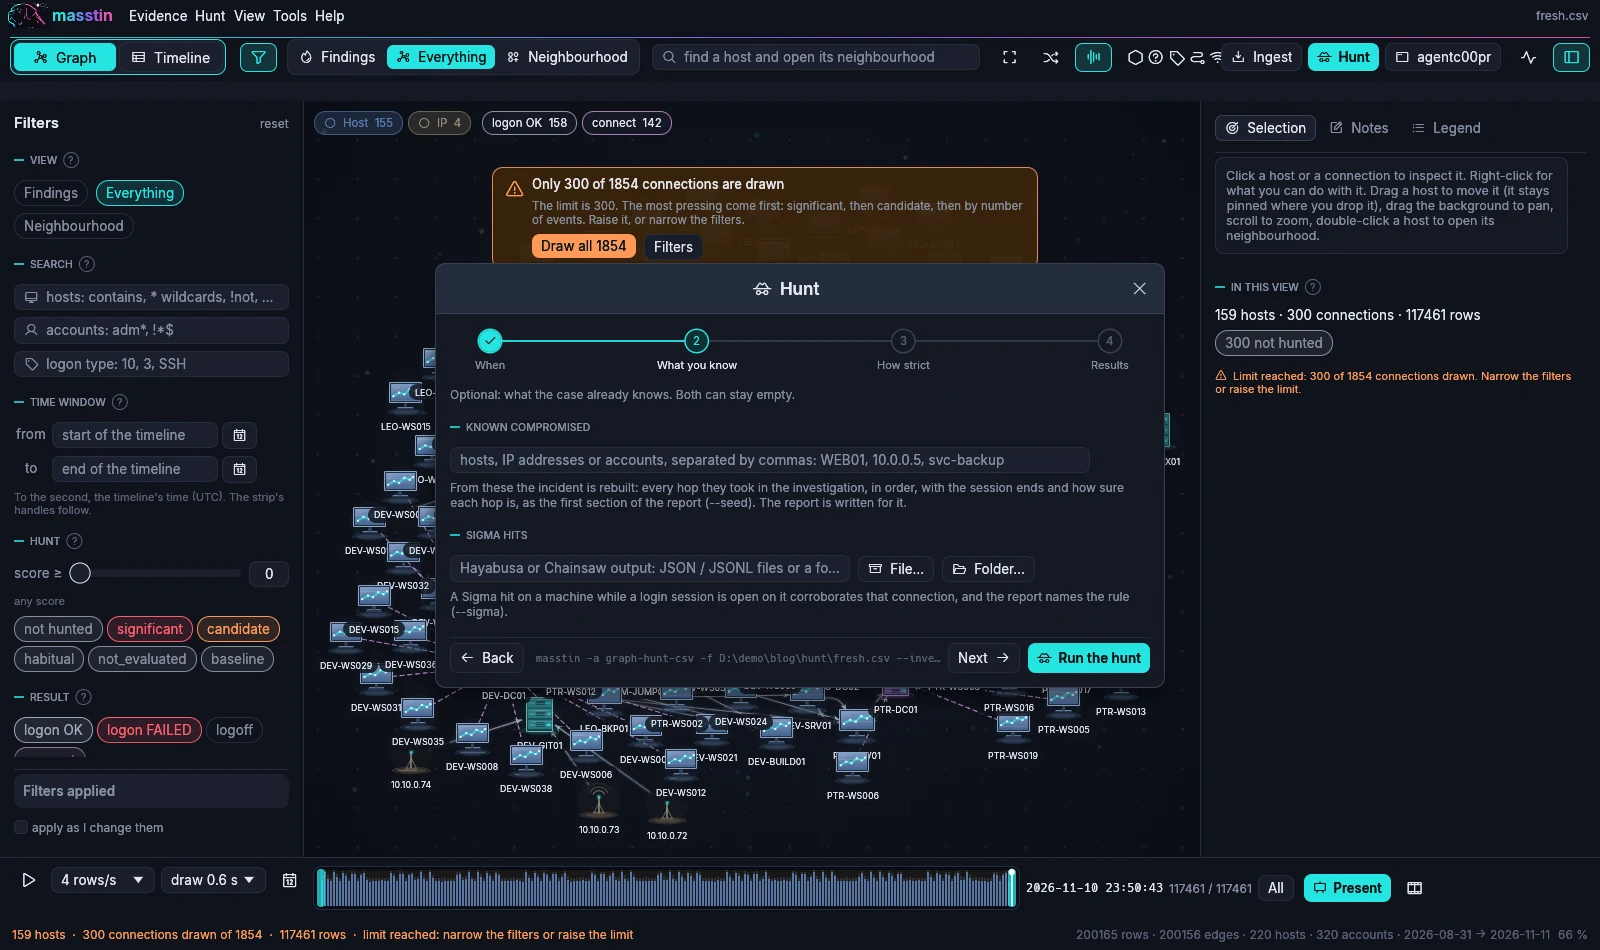
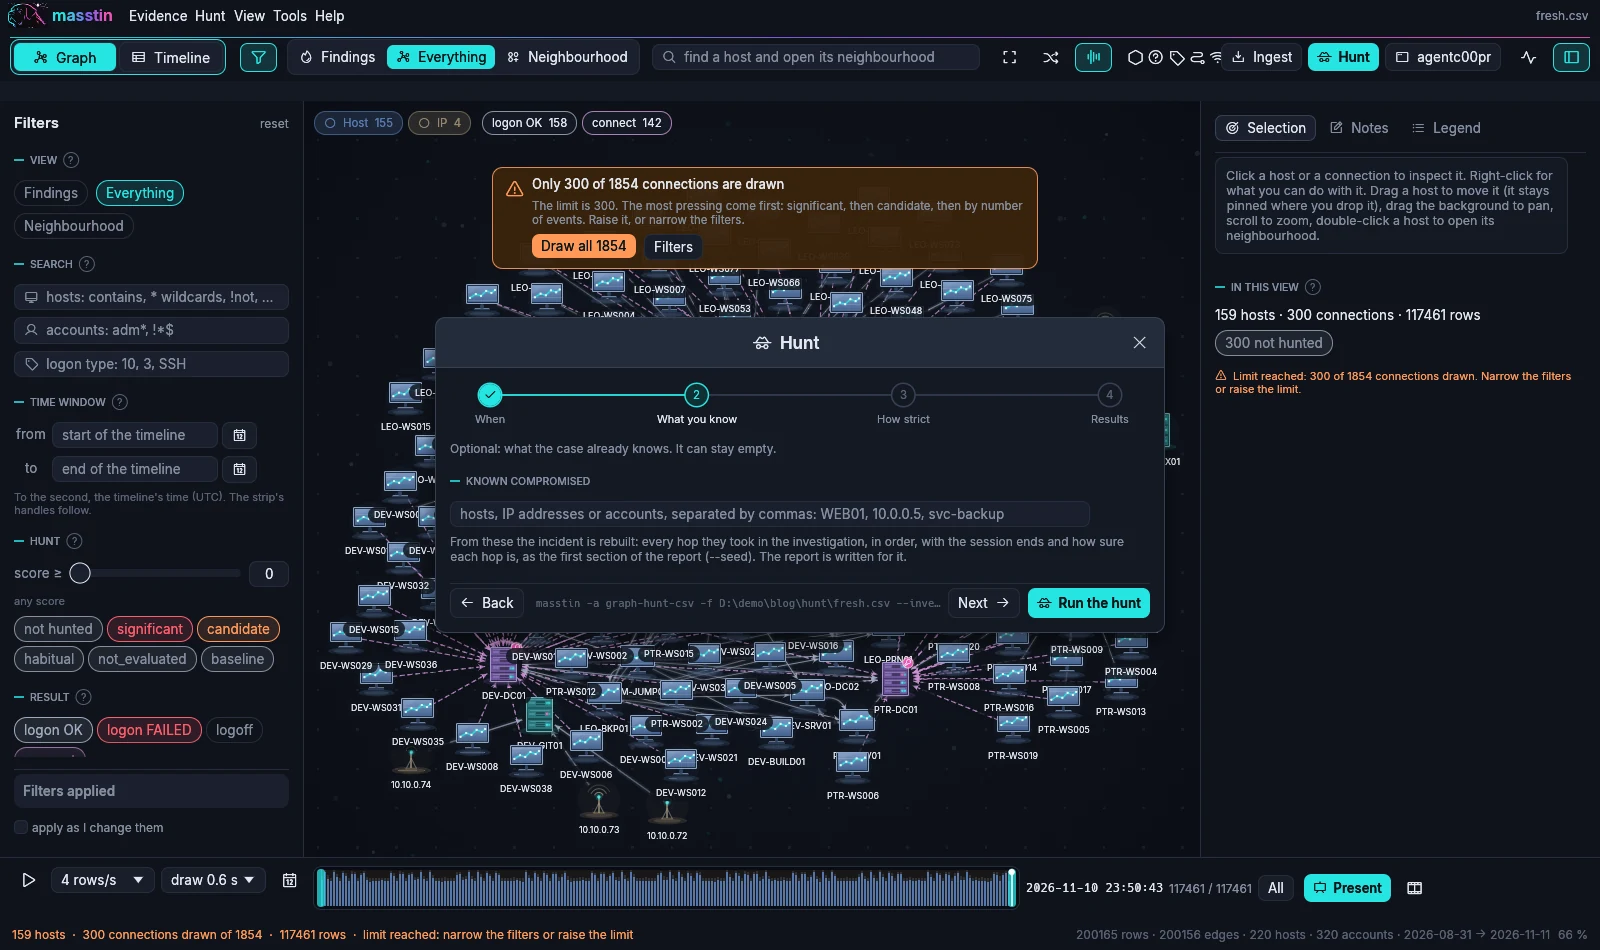
Hunt articles: drop the Sigma corroboration, removed from masstin

Changed region(s): [[0.25, 0.2747, 0.75, 0.7632]]

diff --git a/_posts/es/2026-05-21-masstin-graph-hunt.md b/_posts/es/2026-05-21-masstin-graph-hunt.md
@@ -83,7 +83,7 @@ account, result, events, logs, signature, why_unusual, evidence, chain, campaign
 
 Con `--report hunt.md` tienes además una historia por cada origen con alguna conexión significativa: si existía en la línea base y qué solía hacer, qué hizo en la ventana por fases cronológicas, por qué cada fase es inusual con el conteo detrás de cada afirmación, de quién son las cuentas que usó por primera vez, sus caminos causales, los orígenes con los que se mueve, y tres párrafos que me descubrí escribiendo a mano en cada caso antes de que se generasen: *podría ser benigno si*, *para descartarlo*, y *eventos que pedir* (los eventos crudos de Windows o Linux que lo zanjan, elegidos según las familias de log que registraron al origen). En Neo4j cada origen termina con una consulta para el Browser que dibuja exactamente ese subgrafo.
 
-Dos entradas más, ambas opcionales. `--seed` es lo que enseña el vídeo: hosts, IPs o cuentas que ya sabes que son malas, seguidas por las sesiones que abrieron hasta el final del día, con una certeza en cada salto y una consulta Cypher que dibuja la cadena. `--sigma` toma la salida JSON de [Hayabusa](https://github.com/Yamato-Security/hayabusa) o [Chainsaw](https://github.com/WithSecureLabs/chainsaw): una regla que saltó en una máquina mientras había una sesión de login abierta en ella se convierte en una señal medida más de esa conexión, y la explicación nombra la regla, la hora y el nivel. masstin no detecta PsExec ni WMI por sí mismo; une lo que esas herramientas encontraron al login que lo hizo posible.
+Una entrada más, opcional. `--seed` es lo que enseña el vídeo: hosts, IPs o cuentas que ya sabes que son malas, seguidas por las sesiones que abrieron hasta el final del día, con una certeza en cada salto y una consulta Cypher que dibuja la cadena. masstin ve logins, no lo que se hizo dentro de la máquina: PsExec, WMI o la instalación de un servicio los encuentran otras herramientas.
 
 ## ¿Funciona?
 
@@ -104,7 +104,7 @@ Lo que no caza también está en la tabla: la segunda máquina del equipo rojo h
 
 ## Cuándo no usarlo
 
-Dos días de logs no son una línea base; la ejecución de Szechuan de arriba lo dice ella misma. El triaje de un solo host no tiene red con la que comparar. Y un atacante que hace un login con la cuenta de la víctima desde la estación de la víctima no ha hecho nada nuevo para la red; para eso están la reconstrucción desde semilla y la corroboración con Sigma.
+Dos días de logs no son una línea base; la ejecución de Szechuan de arriba lo dice ella misma. El triaje de un solo host no tiene red con la que comparar. Y un atacante que hace un login con la cuenta de la víctima desde la estación de la víctima no ha hecho nada nuevo para la red; para eso está la reconstrucción desde semilla.
 
 ## Pruébalo
 

diff --git a/_posts/en/2026-05-21-masstin-graph-hunt.md b/_posts/en/2026-05-21-masstin-graph-hunt.md
@@ -83,7 +83,7 @@ account, result, events, logs, signature, why_unusual, evidence, chain, campaign
 
 With `--report hunt.md` you also get one story per origin that has a significant connection: whether it existed in the baseline and what it usually did, what it did in the window in chronological phases, why each phase is unusual with the count behind every statement, who owns the accounts it used for the first time, its causal paths, the origins it moves with, and three paragraphs I found myself writing by hand on every case before they were generated: *could be benign if*, *to rule that out*, and *events to pull* (the raw Windows or Linux events that settle it, chosen from the log families that recorded the origin). On Neo4j each origin ends with a Browser query that draws exactly that subgraph.
 
-Two more inputs, both optional. `--seed` is what the video shows: hosts, IPs or accounts you already know are bad, followed through the sessions they opened until the end of the day, with a certainty on every hop and a Cypher query that draws the chain. `--sigma` takes the JSON output of [Hayabusa](https://github.com/Yamato-Security/hayabusa) or [Chainsaw](https://github.com/WithSecureLabs/chainsaw): a rule that fired on a machine while a login session was open on it becomes one more measured signal of that connection, and the explanation names the rule, the time and the level. masstin does not detect PsExec or WMI itself; it joins what those tools found to the login that made it possible.
+One more input, optional. `--seed` is what the video shows: hosts, IPs or accounts you already know are bad, followed through the sessions they opened until the end of the day, with a certainty on every hop and a Cypher query that draws the chain. masstin sees logins, not what was done inside the machine: PsExec, WMI or a service install are for other tools to find.
 
 ## Does it work
 
@@ -104,7 +104,7 @@ What it does not catch is also in the table: the second red-team machine made on
 
 ## When not to use it
 
-Two days of logs is not a baseline; the Szechuan run above says so itself. A single host's triage has no network to compare against. And an attacker who makes one login with the victim's own account from the victim's own workstation has done nothing new for the network; that is what the seed reconstruction and the Sigma corroboration are for.
+Two days of logs is not a baseline; the Szechuan run above says so itself. A single host's triage has no network to compare against. And an attacker who makes one login with the victim's own account from the victim's own workstation has done nothing new for the network; that is what the seed reconstruction is for.
 
 ## Try it
 

diff --git a/_posts/es/2026-11-18-masstin-hunt-viewer.md b/_posts/es/2026-11-18-masstin-hunt-viewer.md
@@ -41,12 +41,11 @@ El asistente propone el último tercio de la timeline y te dice cuántos días d
 
 ### 2. Lo que ya sabes
 
-[![Segundo paso: una caja para las máquinas, direcciones o cuentas que ya se saben comprometidas y otra para los resultados de Hayabusa o Chainsaw](/assets/images/hunt/h-w2.webp){: style="display:block; margin: 1rem auto; max-width: 100%;" loading="lazy"}](/assets/images/hunt/h-w2.webp)
+[![Segundo paso: una caja para las máquinas, direcciones o cuentas que ya se saben comprometidas](/assets/images/hunt/h-w2.webp){: style="display:block; margin: 1rem auto; max-width: 100%;" loading="lazy"}](/assets/images/hunt/h-w2.webp)
 
-Opcional, y las dos cajas pueden quedarse vacías.
+Opcional: puede quedarse vacío.
 
-- **Known compromised.** Máquinas, direcciones o cuentas que ya sabes que son malas. Con eso el hunt reconstruye la cadena a partir de ellas. Lo cuento en [el artículo de las semillas](/es/tools/masstin-hunt-seeds/).
-- **Sigma hits.** La salida de Hayabusa o Chainsaw. Si una regla Sigma saltó en una máquina mientras había una sesión abierta en ella, eso corrobora la conexión y el informe nombra la regla.
+En **Known compromised** escribes las máquinas, direcciones o cuentas que ya sabes que son malas. Con eso el hunt reconstruye la cadena a partir de ellas. Lo cuento en [el artículo de las semillas](/es/tools/masstin-hunt-seeds/).
 
 ### 3. Cómo de estricto
 
@@ -130,6 +129,6 @@ El visor no lo pisa sin preguntar. Un diálogo te dice con qué parámetros se p
 
 - **Necesita pasado.** Con un solo día de referencia no arranca. Con una semana funciona, y con un mes mejor.
 - **Encuentra lo nuevo, no lo malo.** Un administrador que estrena servidor sale en la lista, y está bien que salga. Tú decides. En este escenario hay uno: `adm.nora` entrando desde el servidor de salto a una máquina del socio a la que nunca había ido. Sale como significativo y la clase que le pone el hunt es «credencial habitual en una conexión nueva», que es justo lo que es.
-- **No ve lo que hizo dentro.** masstin ve logons, no procesos. Para eso están los resultados de Sigma del paso 2, o el resto de la evidencia.
+- **No ve lo que hizo dentro.** masstin ve logons, no procesos. Para eso está el resto de la evidencia.
 
 Cómo leer el detalle de lo que escribe está en [el artículo siguiente](/es/tools/masstin-hunt-report/).

diff --git a/_posts/en/2026-11-18-masstin-hunt-viewer.md b/_posts/en/2026-11-18-masstin-hunt-viewer.md
@@ -41,12 +41,11 @@ The wizard suggests the last third of the timeline and tells you how many refere
 
 ### 2. What you already know
 
-[![Second step: one box for the machines, addresses or accounts already known to be compromised and another for Hayabusa or Chainsaw results](/assets/images/hunt/h-w2.webp){: style="display:block; margin: 1rem auto; max-width: 100%;" loading="lazy"}](/assets/images/hunt/h-w2.webp)
+[![Second step: one box for the machines, addresses or accounts already known to be compromised](/assets/images/hunt/h-w2.webp){: style="display:block; margin: 1rem auto; max-width: 100%;" loading="lazy"}](/assets/images/hunt/h-w2.webp)
 
-Optional, and both boxes can stay empty.
+Optional: it can stay empty.
 
-- **Known compromised.** Machines, addresses or accounts you already know are bad. With those the hunt rebuilds the chain starting from them. I cover it in [the seeds article](/en/tools/masstin-hunt-seeds/).
-- **Sigma hits.** The output of Hayabusa or Chainsaw. If a Sigma rule fired on a machine while a session was open on it, that corroborates the connection and the report names the rule.
+In **Known compromised** you type the machines, addresses or accounts you already know are bad. With those the hunt rebuilds the chain starting from them. I cover it in [the seeds article](/en/tools/masstin-hunt-seeds/).
 
 ### 3. How strict
 
@@ -130,6 +129,6 @@ The viewer does not write over it without asking. A dialog tells you what the ea
 
 - **It needs a past.** With a single reference day it will not start. With a week it works, and with a month it works better.
 - **It finds what is new, not what is bad.** An administrator trying out a new server is on the list, and rightly so. You decide. This scenario has one: `adm.nora` logging on from the jump server to a partner machine that account had never reached. It comes out significant, and the class the hunt gives it is "habitual credential on a new connection", which is exactly what it is.
-- **It does not see what was done inside.** masstin sees logons, not processes. That is what the Sigma results of step 2 are for, or the rest of the evidence.
+- **It does not see what was done inside.** masstin sees logons, not processes. That is what the rest of the evidence is for.
 
 How to read the detail of what it writes is in [the next article](/en/tools/masstin-hunt-report/).

diff --git a/_posts/es/2026-04-06-masstin-lateral-movement-rust.md b/_posts/es/2026-04-06-masstin-lateral-movement-rust.md
@@ -215,7 +215,7 @@ Cómo decide, y qué encontró en el conjunto público de LANL, está en el [art
 | `load-memgraph` | Sube la timeline a Memgraph para visualización en grafos en memoria |
 | `merge-neo4j-nodes` | Fusiona dos nodos `:host` del grafo después de cargar (por ejemplo, cuando una IP y un hostname no se unificaron automáticamente). No requiere APOC |
 | `merge-memgraph-nodes` | Igual que el anterior, para Memgraph. No requiere MAGE |
-| `graph-hunt-csv` | **Caza estadística de movimiento lateral directamente desde el CSV del timeline.** Cada conexión posterior a `--investigation-from` se mide contra la línea base; Benjamini-Hochberg a `--alpha` decide; `--seed` reconstruye cadenas, `--report` escribe el informe para el analista, `--sigma` une los hits de Hayabusa / Chainsaw. Sin base de datos. Ver [post graph-hunt](/es/tools/masstin-graph-hunt/) |
+| `graph-hunt-csv` | **Caza estadística de movimiento lateral directamente desde el CSV del timeline.** Cada conexión posterior a `--investigation-from` se mide contra la línea base; Benjamini-Hochberg a `--alpha` decide; `--seed` reconstruye cadenas, `--report` escribe el informe para el analista. Sin base de datos. Ver [post graph-hunt](/es/tools/masstin-graph-hunt/) |
 | `graph-hunt` | La misma caza sobre un grafo cargado en Memgraph con `--ungrouped`. Todo se calcula en memoria; no necesita MAGE |
 | `graph-hunt-neo4j` | La misma caza sobre Neo4j (`--db <nombre>` para bases con nombre). No necesita el plugin GDS |
 

diff --git a/_posts/en/2026-04-06-masstin-lateral-movement-rust.md b/_posts/en/2026-04-06-masstin-lateral-movement-rust.md
@@ -215,7 +215,7 @@ How it decides, and what it found on the public LANL set, is in the [graph-hunt 
 | `load-memgraph` | Upload timeline to Memgraph for in-memory graph visualization |
 | `merge-neo4j-nodes` | Fuse two `:host` graph nodes after loading (e.g., when an IP and a hostname were not auto-unified). No APOC required |
 | `merge-memgraph-nodes` | Same as above, for Memgraph. No MAGE required |
-| `graph-hunt-csv` | **Statistical lateral movement hunt straight from the timeline CSV.** Every connection after `--investigation-from` is measured against the baseline; Benjamini-Hochberg at `--alpha` decides; `--seed` reconstructs chains, `--report` writes the analyst report, `--sigma` joins Hayabusa / Chainsaw hits. No database. See [graph-hunt post](/en/tools/masstin-graph-hunt/) |
+| `graph-hunt-csv` | **Statistical lateral movement hunt straight from the timeline CSV.** Every connection after `--investigation-from` is measured against the baseline; Benjamini-Hochberg at `--alpha` decides; `--seed` reconstructs chains, `--report` writes the analyst report. No database. See [graph-hunt post](/en/tools/masstin-graph-hunt/) |
 | `graph-hunt` | Same hunt on a graph loaded into Memgraph with `--ungrouped`. Everything is computed in memory; no MAGE needed |
 | `graph-hunt-neo4j` | Same hunt on Neo4j (`--db <name>` for named databases). No GDS plugin needed |
 
